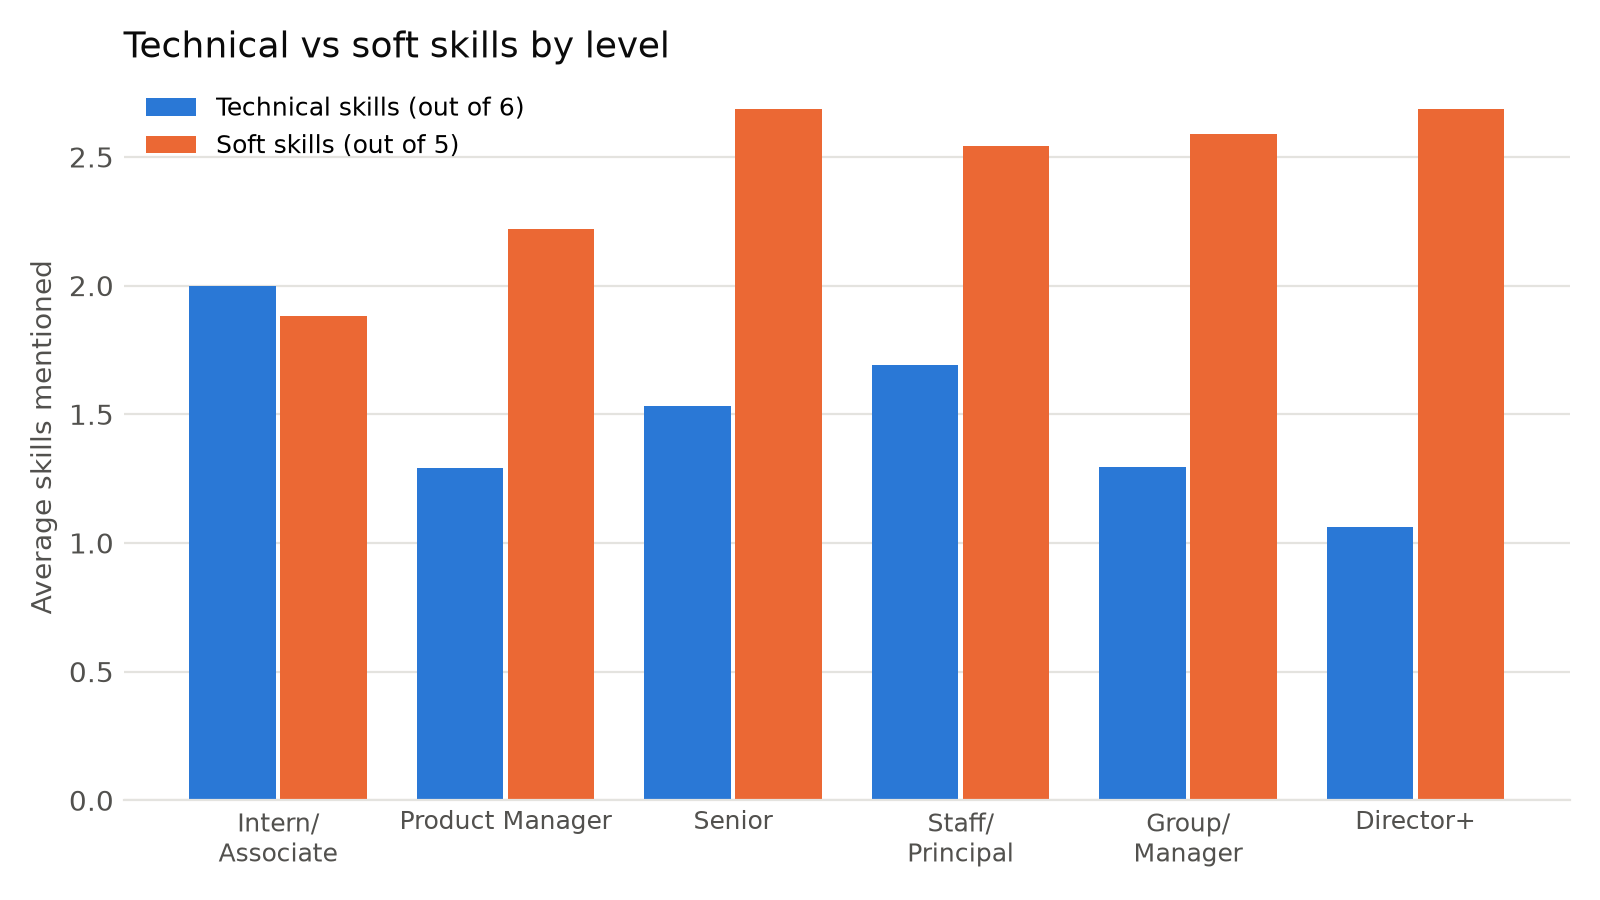
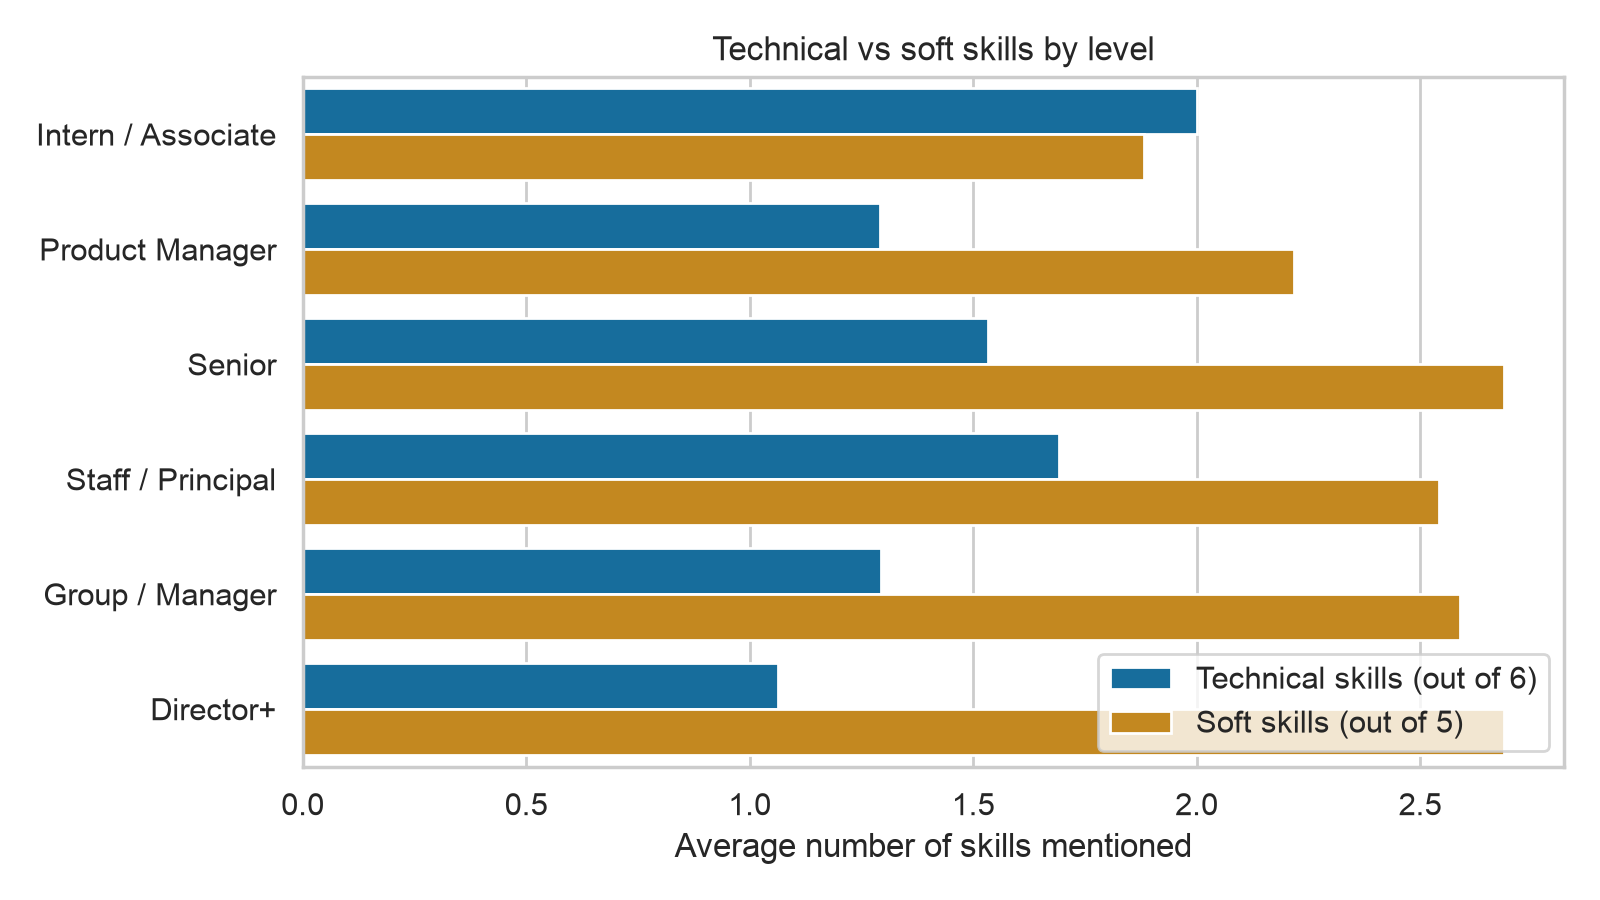
Fix Claude false matches in AI tools flag, switch charts to seaborn

diff --git a/scripts/eda.py b/scripts/eda.py
@@ -10,13 +10,12 @@ from pathlib import Path
 
 import matplotlib.pyplot as plt
 import pandas as pd
+import seaborn as sns
 
 ROOT = Path(__file__).resolve().parent.parent
 FIG_DIR = ROOT / "figures"
 
-# Colors from a colorblind-checked palette
-BLUE, ORANGE = "#2a78d6", "#eb6834"
-INK, MUTED, GRID = "#0b0b0b", "#52514e", "#e4e3df"
+sns.set_theme(style="whitegrid", palette="colorblind")
 
 LEVELS = ["Intern / Associate", "Product Manager", "Senior", "Staff / Principal",
           "Group / Manager", "Director+"]
@@ -34,14 +33,6 @@ SKILL_LABELS = {
     "soft_leadership": "Leadership / influence",
     "soft_customer_focus": "Customer empathy",
 }
-
-
-def style_axes(ax, xgrid=True):
-    ax.spines[["top", "right", "left"]].set_visible(False)
-    ax.spines["bottom"].set_color(GRID)
-    ax.tick_params(colors=MUTED, length=0)
-    ax.grid(axis="x" if xgrid else "y", color=GRID, linewidth=0.8)
-    ax.set_axisbelow(True)
 
 
 def load() -> pd.DataFrame:
@@ -102,68 +93,54 @@ def print_summaries(df: pd.DataFrame) -> None:
 
 
 def fig_skills(df: pd.DataFrame) -> None:
-    shares = df[list(SKILL_LABELS)].mean().sort_values()
-    colors = [BLUE if name.startswith("tech_") else ORANGE for name in shares.index]
+    shares = df[list(SKILL_LABELS)].mean().sort_values(ascending=False) * 100
+    plot_df = pd.DataFrame({
+        "skill": [SKILL_LABELS[name] for name in shares.index],
+        "percent": shares.values,
+        "type": ["Technical" if name.startswith("tech_") else "Soft"
+                 for name in shares.index],
+    })
 
     fig, ax = plt.subplots(figsize=(8, 5))
-    ax.barh([SKILL_LABELS[n] for n in shares.index], shares * 100, color=colors,
-            height=0.65)
-    for y, value in enumerate(shares * 100):
-        ax.text(value + 1, y, f"{value:.0f}%", va="center", color=INK, fontsize=9)
-    style_axes(ax)
-    ax.set_xlim(0, 75)
-    ax.set_xlabel("% of postings that mention it in the requirements", color=MUTED)
-    ax.set_title("What PM postings ask for", loc="left", color=INK, fontsize=13)
-    ax.legend(handles=[plt.Rectangle((0, 0), 1, 1, color=BLUE),
-                       plt.Rectangle((0, 0), 1, 1, color=ORANGE)],
-              labels=["Technical", "Soft"], frameon=False, loc="lower right")
+    sns.barplot(data=plot_df, x="percent", y="skill", hue="type", dodge=False, ax=ax)
+    ax.bar_label(ax.containers[0], fmt="%.0f%%", padding=3)
+    ax.bar_label(ax.containers[1], fmt="%.0f%%", padding=3)
+    ax.set(xlabel="% of postings that mention it in the requirements", ylabel="",
+           title="What PM postings ask for", xlim=(0, 75))
+    ax.legend(title="")
     fig.tight_layout()
     fig.savefig(FIG_DIR / "skill_frequency.png", dpi=200)
     plt.close(fig)
 
 
 def fig_ai_by_level(df: pd.DataFrame) -> None:
-    shares = df.groupby("level", observed=True)[
-        ["ai_in_requirements", "ai_tools_in_requirements"]].mean() * 100
-    counts = df["level"].value_counts().reindex(shares.index)
+    shares = (df.groupby("level", observed=True)
+              [["ai_in_requirements", "ai_tools_in_requirements"]].mean() * 100)
+    shares.columns = ["Asks for AI knowledge or experience",
+                      "Asks you to use AI tools yourself"]
+    plot_df = shares.reset_index().melt(id_vars="level", var_name="type",
+                                        value_name="percent")
 
     fig, ax = plt.subplots(figsize=(8, 4.5))
-    y = range(len(shares))
-    ax.barh([i - 0.18 for i in y], shares["ai_in_requirements"], height=0.34,
-            color=BLUE, label="Asks for AI knowledge or experience")
-    ax.barh([i + 0.18 for i in y], shares["ai_tools_in_requirements"], height=0.34,
-            color=ORANGE, label="Asks you to use AI tools yourself")
-    ax.set_yticks(list(y), [f"{lvl} (n={counts[lvl]})" for lvl in shares.index])
-    ax.invert_yaxis()
-    style_axes(ax)
-    ax.set_xlim(0, 100)
-    ax.set_xlabel("% of postings, requirements section only", color=MUTED)
-    ax.set_title("AI in PM requirements by level", loc="left", color=INK, fontsize=13)
-    ax.legend(frameon=False, loc="lower right", fontsize=9)
+    sns.barplot(data=plot_df, x="percent", y="level", hue="type", ax=ax)
+    ax.set(xlabel="% of postings (requirements section only)", ylabel="",
+           title="AI in PM requirements by level", xlim=(0, 100))
+    ax.legend(title="", loc="lower right")
     fig.tight_layout()
     fig.savefig(FIG_DIR / "ai_by_level.png", dpi=200)
     plt.close(fig)
 
 
 def fig_pay_by_level(df: pd.DataFrame) -> None:
-    annual = df[(df["pay_period"] == "year")]
-    levels = [lvl for lvl in LEVELS if (annual["level"] == lvl).sum() >= 5]
-    data = [annual.loc[annual["level"] == lvl, "pay_mid"] / 1000 for lvl in levels]
+    # Intern / Associate is left out since only 2 of those postings list annual pay
+    annual = df[df["pay_mid"].notna() & (df["level"] != "Intern / Associate")].copy()
+    annual["level"] = annual["level"].cat.remove_unused_categories()
+    annual["pay_mid_k"] = annual["pay_mid"] / 1000
 
     fig, ax = plt.subplots(figsize=(8, 4.5))
-    box = ax.boxplot(data, orientation="horizontal", patch_artist=True, widths=0.55,
-                     medianprops={"color": INK, "linewidth": 2},
-                     whiskerprops={"color": MUTED}, capprops={"color": MUTED},
-                     flierprops={"marker": "o", "markersize": 4,
-                                 "markerfacecolor": BLUE, "markeredgecolor": "white"})
-    for patch in box["boxes"]:
-        patch.set(facecolor="#9ec5f4", edgecolor=BLUE)
-    ax.set_yticks(range(1, len(levels) + 1),
-                  [f"{lvl} (n={len(d)})" for lvl, d in zip(levels, data)])
-    ax.invert_yaxis()
-    style_axes(ax)
-    ax.set_xlabel("Midpoint of listed annual base pay range ($ thousands)", color=MUTED)
-    ax.set_title("Listed base pay by level", loc="left", color=INK, fontsize=13)
+    sns.boxplot(data=annual, x="pay_mid_k", y="level", ax=ax)
+    ax.set(xlabel="Midpoint of listed annual base pay ($ thousands)", ylabel="",
+           title="Listed base pay by level")
     fig.tight_layout()
     fig.savefig(FIG_DIR / "pay_by_level.png", dpi=200)
     plt.close(fig)
@@ -171,19 +148,15 @@ def fig_pay_by_level(df: pd.DataFrame) -> None:
 
 def fig_tech_soft_by_level(df: pd.DataFrame) -> None:
     means = df.groupby("level", observed=True)[["tech_count", "soft_count"]].mean()
-    x = range(len(means))
+    means.columns = ["Technical skills (out of 6)", "Soft skills (out of 5)"]
+    plot_df = means.reset_index().melt(id_vars="level", var_name="type",
+                                       value_name="average")
 
     fig, ax = plt.subplots(figsize=(8, 4.5))
-    ax.bar([i - 0.2 for i in x], means["tech_count"], width=0.38, color=BLUE,
-           label="Technical skills (out of 6)")
-    ax.bar([i + 0.2 for i in x], means["soft_count"], width=0.38, color=ORANGE,
-           label="Soft skills (out of 5)")
-    ax.set_xticks(list(x), [lvl.replace(" / ", "/\n") for lvl in means.index],
-                  fontsize=9)
-    style_axes(ax, xgrid=False)
-    ax.set_ylabel("Average skills mentioned", color=MUTED)
-    ax.set_title("Technical vs soft skills by level", loc="left", color=INK, fontsize=13)
-    ax.legend(frameon=False, fontsize=9)
+    sns.barplot(data=plot_df, x="average", y="level", hue="type", ax=ax)
+    ax.set(xlabel="Average number of skills mentioned", ylabel="",
+           title="Technical vs soft skills by level")
+    ax.legend(title="", loc="lower right")
     fig.tight_layout()
     fig.savefig(FIG_DIR / "tech_vs_soft_by_level.png", dpi=200)
     plt.close(fig)

diff --git a/scripts/clean.py b/scripts/clean.py
@@ -55,7 +55,7 @@ AI_TERMS = (
     r"generative|\bgen ?AI\b|large language model|\bagentic\b|\bAI agents?\b"
 )
 AI_TOOLS = (
-    r"AI tool|AI-native|AI-powered tools|AI coding|ChatGPT|\bClaude\b|\bCursor\b|"
+    r"AI tool|AI-native|AI-powered tools|AI coding|ChatGPT|Claude Code|(use|leverage)\w* Claude|\bCursor\b|"
     r"Copilot|prompt(ing)? |vibe cod|use(s|d)? AI|using AI|leverag\w* AI|"
     r"agentic coding|AI-enabled|coding (agents|tools)"
 )

diff --git a/README.md b/README.md
@@ -50,7 +50,7 @@ Postings come down when jobs are filled, so running `collect.py` on a different 
 | `ai_tools_in_requirements` | yes/no | Requirements ask you to use AI tools yourself (e.g. "use AI tools in your workflow," ChatGPT, Claude, Cursor) |
 | `tech_sql`, `tech_coding`, `tech_cs_degree`, `tech_technical_background`, `tech_apis`, `tech_data_analytics` | yes/no | Technical skill mentioned in the requirements |
 | `soft_communication`, `soft_leadership`, `soft_collaboration`, `soft_stakeholders`, `soft_customer_focus` | yes/no | Soft skill mentioned in the requirements |
-| `tech_count`, `soft_count` | integer | Number of technical (0–6) and soft (0–5) skills mentioned |
+| `tech_count`, `soft_count` | integer | Number of technical (0-6) and soft (0-5) skills mentioned |
 | `min_years_experience` | number | First "N+ years of experience" in the requirements (lower end of ranges like "3-5 years") |
 | `pay_low`, `pay_high` | number | First USD pay range listed in the posting |
 | `pay_period` | category | `year` or `hour` |
